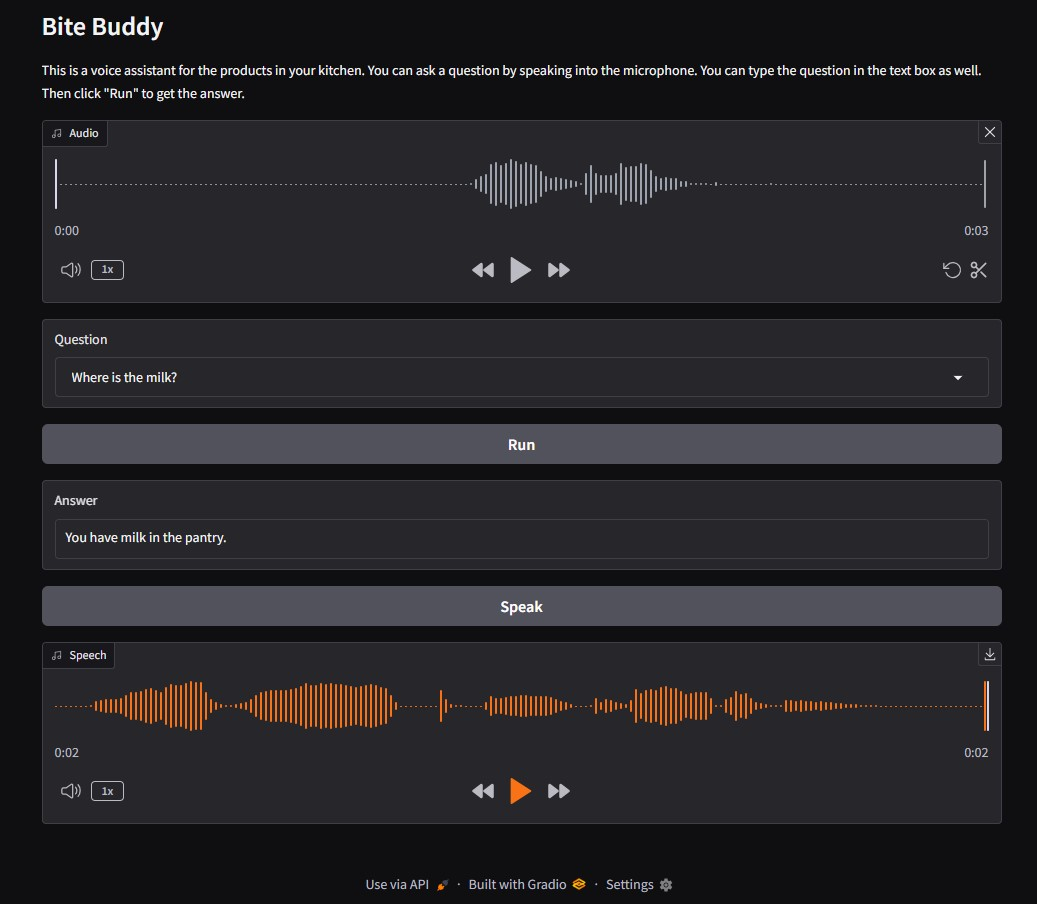
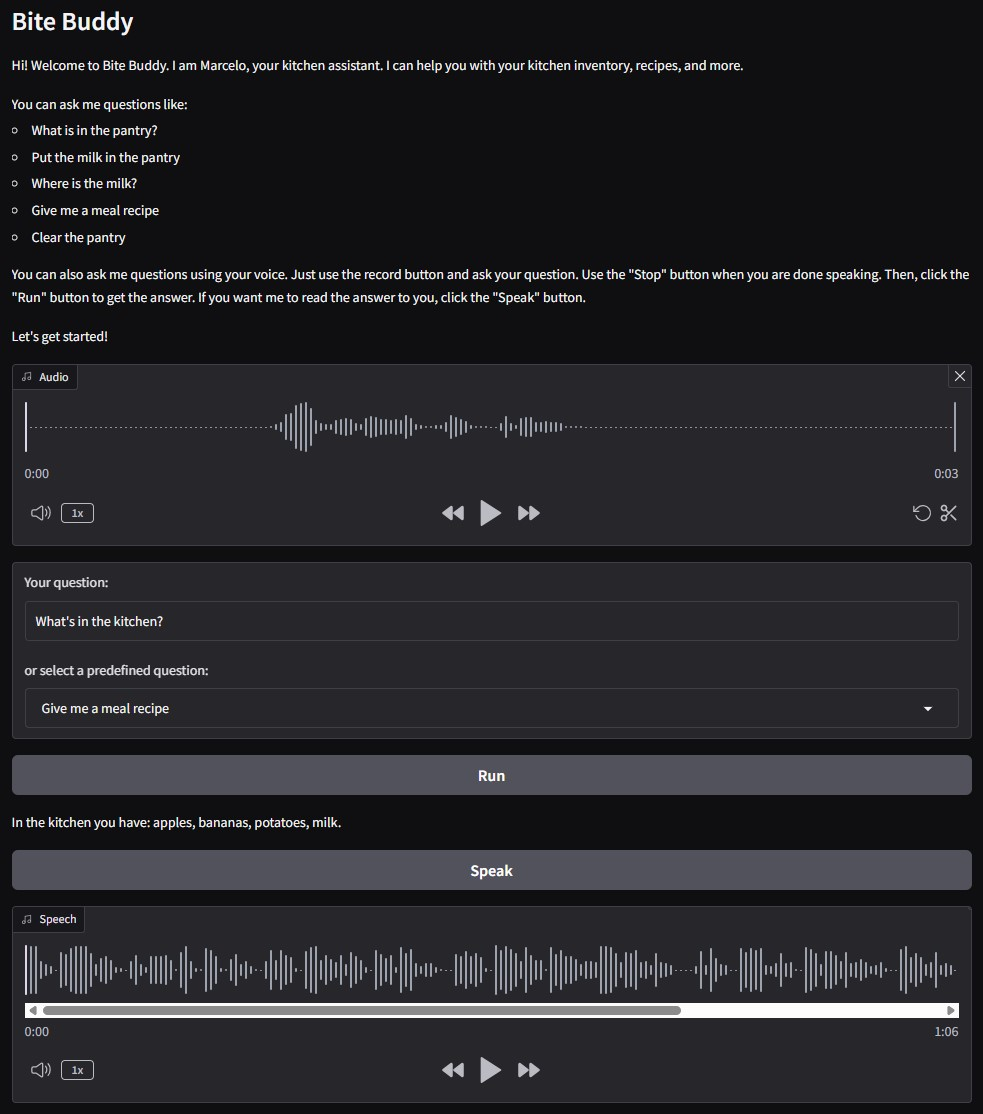
Add detailed application report and enhance voice assistant interactions

diff --git a/app.py b/app.py
@@ -30,7 +30,7 @@ intent_handlers = {
 
 
 @component
-class RemoteOpenAISpeechToText:
+class RemoteOpenAITextToSpeech:
     def __init__(self):
         self.client = OpenAI()
 
@@ -38,7 +38,7 @@ class RemoteOpenAISpeechToText:
     def run(self, text: str):
         response = self.client.audio.speech.create(
             model="tts-1",
-            voice="alloy",
+            voice="onyx",
             input=text,
         )
 
@@ -49,21 +49,34 @@ class RemoteOpenAISpeechToText:
 
 
 transcriber = RemoteWhisperTranscriber()
-talker = RemoteOpenAISpeechToText()
+talker = RemoteOpenAITextToSpeech()
 
 with gr.Blocks() as demo:
     gr.Markdown("# Bite Buddy")
     gr.Markdown(
         """
-        This is a voice assistant for the products in your kitchen. 
-        You can ask a question by speaking into the microphone. 
-        You can type the question in the text box as well.
-        Then click "Run" to get the answer.
+        Hi! Welcome to Bite Buddy. I am Marcelo, your kitchen assistant.
+        I can help you with your kitchen inventory, recipes, and more.
+
+        You can ask me questions like:
+        - What is in the pantry?
+        - Put the milk in the pantry
+        - Where is the milk?
+        - Give me a meal recipe
+        - Clear the pantry
+
+        You can also ask me questions using your voice. Just use the record button and ask your question.
+        Use the "Stop" button when you are done speaking.
+        Then, click the "Run" button to get the answer.
+        If you want me to read the answer to you, click the "Speak" button.
+
+        Let's get started!
         """
     )
     audio = gr.Audio(label="Audio", sources=["microphone"], type="filepath")
-    query = gr.Dropdown(
-        label="Question",
+    query = gr.Textbox(label="Your question:", placeholder="Type your question here")
+    options = gr.Dropdown(
+        label="or select a predefined question:",
         choices=[
             "What is in the pantry?",
             "Put the milk in the pantry",
@@ -71,17 +84,23 @@ with gr.Blocks() as demo:
             "Give me a meal recipe",
             "Clear the pantry",
         ],
+        value="What is in the pantry?",
         interactive=True,
-        allow_custom_value=True,
+        allow_custom_value=False,
     )
     run = gr.Button(value="Run")
-    result = gr.Textbox(label="Answer")
+    result = gr.Markdown()
     speak = gr.Button(value="Speak")
     speech = gr.Audio(label="Speech", interactive=False)
 
-    def run_query(query):
-        if query is None:
+    def run_query(query, option):
+        if not query and not option:
             return ""
+
+        if not query and option:
+            query = option
+
+        print(f"Query: {query}")
 
         result = intent_matching.run(query)
         intent_handler = intent_handlers[result]
@@ -102,9 +121,13 @@ with gr.Blocks() as demo:
         result = talker.run(answer)
         return result["file_path"]
 
+    def reset_query(option, query):
+        return "" if option else query
+
     # pylint: disable=no-member
+    options.change(reset_query,inputs=[options, query],outputs=[query])
     audio.input(transcribe_audio, inputs=[audio], outputs=[query])
-    run.click(run_query, inputs=[query], outputs=[result])
+    run.click(run_query, inputs=[query, options], outputs=[result])
     speak.click(speak_answer, inputs=[result], outputs=[speech])
     # pylint: enable=no-member
 

diff --git a/src/intent_handling.py b/src/intent_handling.py
@@ -27,9 +27,10 @@ class InventoryQueryIntentHandling:
         if len(products) == 0:
             return f"There are no products in the kitchen's {location_in_kitchen}."
 
-        return (
-            f"In the kitchen's {location_in_kitchen} you have: {', '.join(products)}."
-        )
+        if location_in_kitchen == "kitchen":
+            return f"In the kitchen you have: {', '.join(products)}."
+        else:
+            return f"In the kitchen's {location_in_kitchen} you have: {', '.join(products)}."
 
 
 class InventoryEntryIntentHandling:
@@ -105,4 +106,4 @@ class RecipeQueryIntentHandling:
         for product in product_list:
             documents.append(Document(content=product))
         result = self.pipeline.run({"prompt_builder": {"documents": documents}})
-        return "Here is a recipe for you:\n\n" + result["llm"]["replies"][0]
+        return result["llm"]["replies"][0]

diff --git a/tests/intent_handling_test.py b/tests/intent_handling_test.py
@@ -41,6 +41,10 @@ class TestInventoryQueryIntentHandling(unittest.TestCase):
                 "Show the items in my kitchen's shelf",
                 "There are no products in the kitchen's shelf.",
             ),
+            (
+                "What is in the kitchen?",
+                "In the kitchen you have: tomatoes, bananas.",
+            ),
         ]
 
         for utterance, expected_intent in test_utterances:

diff --git a/REPORT.MD b/REPORT.MD
@@ -1,0 +1,146 @@
+# Voice Assistants
+
+## Step 1 - Describe the Application
+
+The selected use case is a Voice Assistant that allows you to dictate products
+present in different parts of your kitchen (for example in the pantry, in the
+fridge), and maintain an inventory of them. At a later time, you can query the
+assistant for items present in the inventory, for example: while doing grocery
+shopping, I can ask if there is already mayonnaise at home. BiteBuddy allows you
+to do Inventory Management of your kitchen.
+
+The features supported by the application are:
+
+- Use the microphone to send requests to the assistant.
+- Record a product in a specific kitchen location.
+- Ask what items are present in a particular kitchen location.
+- Inquire about the location of a specific product.
+- Remove items stored in a specific kitchen location.
+- Generate a meal recipe with the products currently available in the kitchen.
+
+## Step 2 - Interaction Model
+
+The voice assistant implements the following intents to handle user requests:
+
+- **InventoryEntryIntent:** This intent is used to add an item to the inventory.
+- **InventoryQueryIntent:** This intent is used to query the inventory products
+  in a given location.
+- **ProductQueryIntent:** This intent is used to find a product in the
+  inventory.
+- **InventoryDeleteIntent:** This intent is used to remove an item from the
+  inventory.
+- **RecipeQueryIntent:** This intent is used to recommend a recipe based on a
+  list of products.
+
+## Step 3 - Fulfillment
+
+This is the fulfillment logic for the InventoryEntryIntent:
+
+```txt
+<!-- InventoryEntryIntentHandling -->
+
+Function run(utterance: string):
+  Parse the location in the kitchen from the utterance
+  Parse the list of products from the utterance
+
+  For each product in the parsed product list:
+    Insert the product into the specified location
+
+  Return a message confirming the products have been added
+  to the specified location
+```
+
+This is the fulfillment logic for the InventoryQueryIntent:
+
+```txt
+<!-- InventoryQueryIntentHandling -->
+
+Function run(utterance: string):
+  Get the location in the kitchen from the utterance
+
+  If the location is "kitchen":
+    Get the list of all products
+  Else:
+    Get the list of products from the specified location
+
+  If there are no products in the specified location:
+    Return a message indicating no products are found
+
+  Return a message listing the products found
+```
+
+This is the fulfillment logic for the ProductQueryIntent:
+
+```txt
+<!-- ProductQueryIntentHandling -->
+
+Function run(utterance: string):
+  Parse the product from the utterance
+```
+
+This is the fullfilment logic for the ProductQueryIntent:
+
+```txt
+<!-- ProductQueryIntentHandling -->
+
+Function run(utterance: str):
+    Parse the product from the utterance
+    Find the locations of product
+
+    If the product was not found in any location:
+        Return a message indicating the product is not found
+    If the product was found in one location:
+        Return a message indicating the product is found in
+        a single location
+    If the product was found in several locations:
+        Return a message indicating the product is found in
+        multiple locations
+```
+
+This is the fullfilment logic for the InventoryDeleteIntent:
+
+```txt
+<!-- InventoryDeleteIntentHandling -->
+
+Function run(utterance: str):
+    Parse the location in the kitchen from the utterance
+    Delete all products from the specified location
+
+    Return a message confirming the specified location
+    has been cleared
+```
+
+This is the fullfilment logic for the RecipeQueryIntent:
+
+```txt
+<!-- RecipeQueryIntentHandling -->
+
+Function run(utterance: str):
+    Get the list of all products in the inventory
+
+    If there are no products:
+        Return a message indicating there are no products in the kitchen
+
+    Genearte a prompt for an LLM requesting it to
+    generate a recipe based on the products available
+
+    Make the request to the LLM
+
+    Return a message with the recipe generated by the LLM
+```
+
+## Step 4 - Persona
+
+Regarding the personality of the Voice Assistant, the name is Marcelo. He is an
+adult person who speaks English with a some foreign accent. He is energetic, he
+wants to get stuff done fast and efficient, considers doing chores as a waste of
+time and something that just needs to be done, but also wants to do them well.
+He likes eating healthy and diverse, but he is not a "foodie".
+
+## Step 5 - User Testing
+
+TODO: Complete
+
+## Step 6 - Review and Reflection
+
+TODO: Complete
